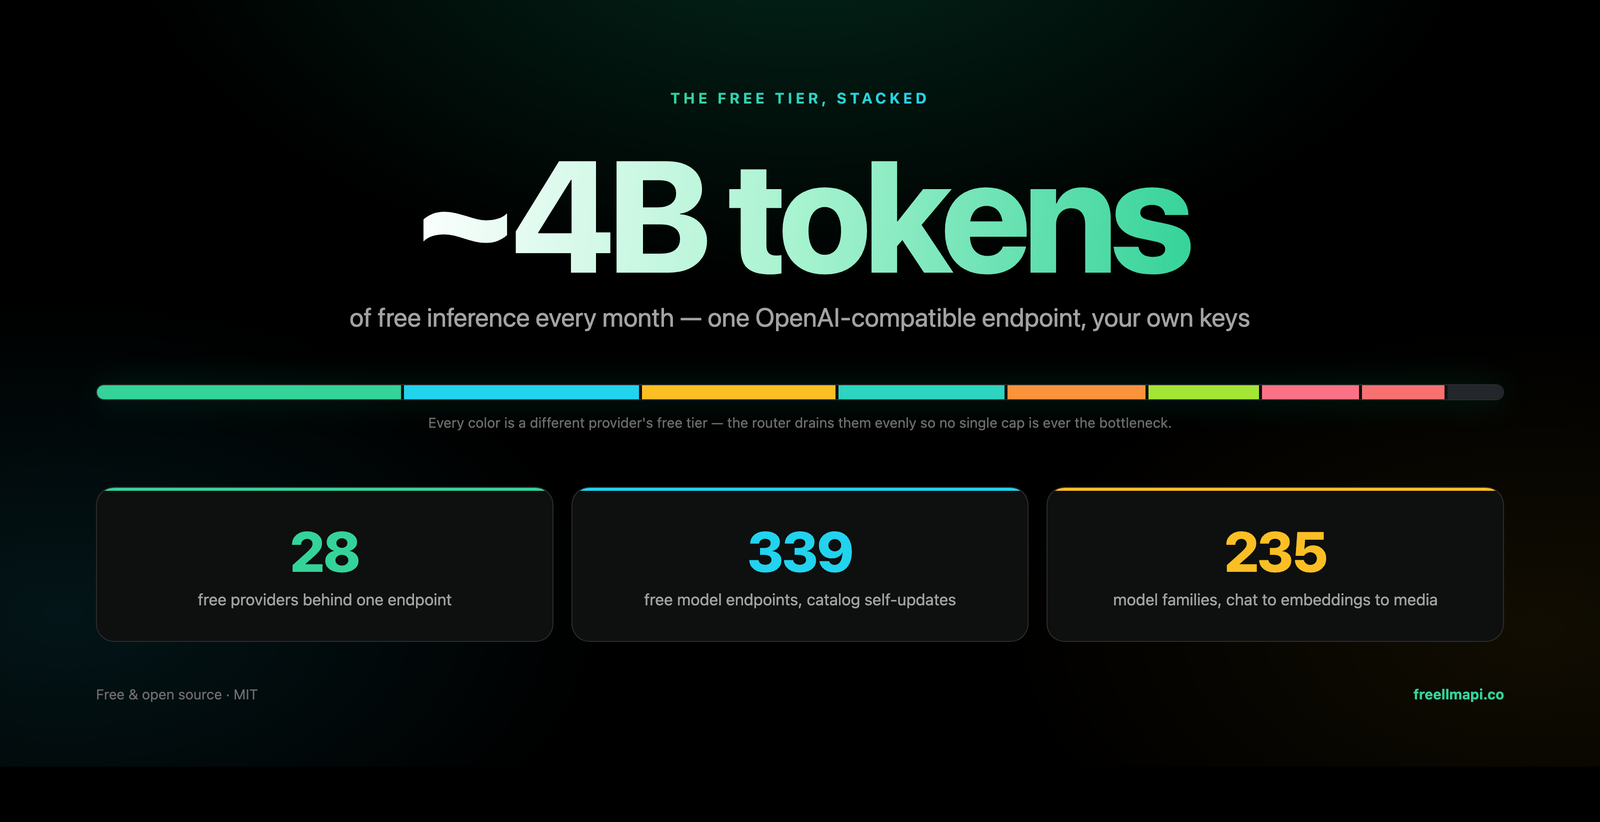
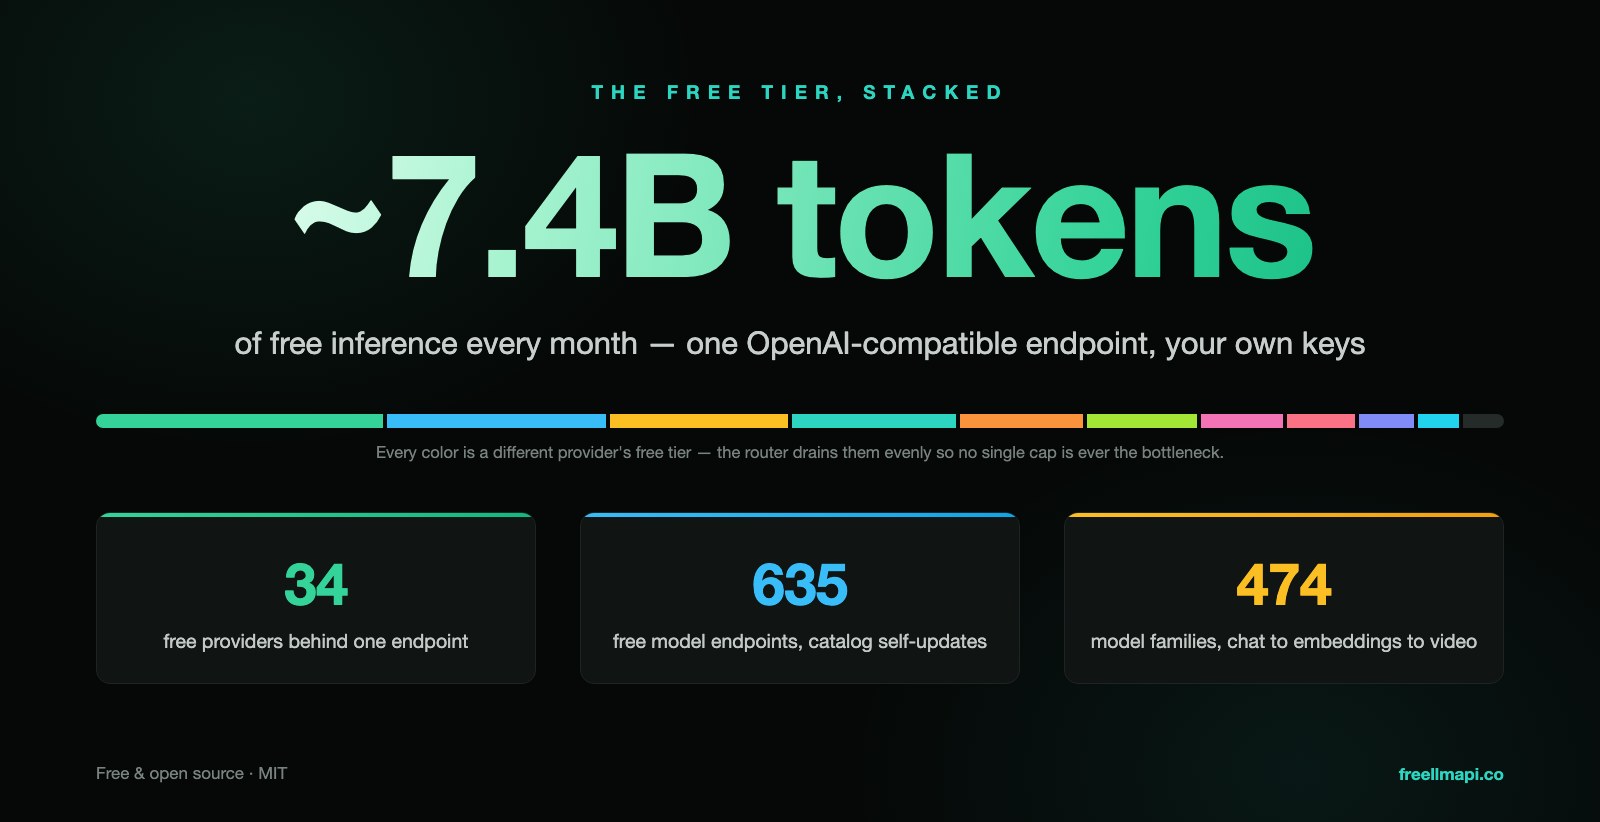
Refresh the free-tier numbers and the stacked-tier graphic (#1006)
7.4 billion tokens a month, 34 providers, 635 free endpoints, 474 model families, regenerated free-tier card, honest 30 day trail disclosure.

diff --git a/README.md b/README.md
@@ -2,7 +2,7 @@
 
 # FreeLLMAPI
 
-**4 billion tokens per month.  29 free LLM providers. 358 free model endpoints. One OpenAI-compatible endpoint.**
+**7.4 billion tokens per month.  34 free LLM providers. 635 free model endpoints. One OpenAI-compatible endpoint.**
 
 Aggregate free tiers from dozens of providers, plus custom OpenAI-compatible chat, embedding, image, and audio endpoints, behind a single `/v1` API. Keys are stored encrypted. A router picks the best available model for each request, falls over to the next provider when one is rate-limited, and tracks per-key usage so you stay under every free-tier cap.
 
@@ -13,7 +13,7 @@ Aggregate free tiers from dozens of providers, plus custom OpenAI-compatible cha
 [![Docker image](https://img.shields.io/badge/ghcr.io-freellmapi-2496ED?logo=docker&logoColor=white)](https://github.com/tashfeenahmed/freellmapi/pkgs/container/freellmapi)
 [![Ask DeepWiki](https://deepwiki.com/badge.svg)](https://deepwiki.com/tashfeenahmed/freellmapi)
 
-**[freellmapi.co](https://freellmapi.co/?utm_source=github&utm_medium=readme&utm_campaign=repository&utm_content=readme_top)** · browse the full catalog: 251 model families, 358 free endpoints
+**[freellmapi.co](https://freellmapi.co/?utm_source=github&utm_medium=readme&utm_campaign=repository&utm_content=readme_top)** · browse the full catalog: 474 model families, 635 free endpoints
 
 **English** · [简体中文](docs/i18n/zh-CN/README.md)
 
@@ -27,7 +27,7 @@ Aggregate free tiers from dozens of providers, plus custom OpenAI-compatible cha
 ![FreeLLMAPI dashboard — Models page with the monthly token budget](repo-assets/github-hero.png)
 
 
-Your router updates its own model catalog from a signed feed: new free models, quota changes, and compatibility fixes land without a `git pull`.
+Your router updates its own model catalog from a signed feed: new free models, quota changes, and compatibility fixes land without a `git pull`. Free installs get the monthly snapshot, so a model reaches them 30 days after it joins the live feed; premium routers get it the same day.
 **[Go live at freellmapi.co](https://freellmapi.co/?utm_source=github&utm_medium=readme&utm_campaign=premium&utm_content=readme_top#pricing)** ($19/yr, cancel anytime).
 
 </div>
@@ -58,13 +58,13 @@ Your router updates its own model catalog from a signed feed: new free models, q
 
 ## Why this exists
 
-Every serious AI lab now offers a free tier, a few million tokens a month, a few thousand requests a day. On its own each tier is a toy. Stacked together, they add up to roughly **4 billion tokens per month** of working inference capacity, across **251 model families / 358 provider endpoints** from small-and-fast to reasonably capable.
+Every serious AI lab now offers a free tier, a few million tokens a month, a few thousand requests a day. On its own each tier is a toy. Stacked together, they add up to roughly **7.4 billion tokens per month** of working inference capacity, across **474 model families / 635 provider endpoints** from small-and-fast to reasonably capable.
 
-The problem is that stacking them by hand is painful: twenty-nine different SDKs, twenty-nine different rate limits, twenty-nine places a request can fail. FreeLLMAPI collapses that into one OpenAI-compatible endpoint. Point any OpenAI client library at your local server, and it routes transparently across whichever providers you've added keys for.
+The problem is that stacking them by hand is painful: thirty-four different SDKs, thirty-four different rate limits, thirty-four places a request can fail. FreeLLMAPI collapses that into one OpenAI-compatible endpoint. Point any OpenAI client library at your local server, and it routes transparently across whichever providers you've added keys for.
 
 And the free-tier landscape shifts weekly: providers launch models, retire them, and change quotas without notice. FreeLLMAPI tracks all of that for you. The router pulls a signed model catalog from [freellmapi.co](https://freellmapi.co) on its own, so your install keeps up without a `git pull`. See [Premium (live catalog)](#premium-live-catalog) for how fast it keeps up.
 
-![The free tier, stacked — ~4B tokens of free inference per month across 28 providers](repo-assets/free-tier.png)
+![The free tier, stacked — ~7.4B tokens of free inference per month across 34 providers](repo-assets/free-tier.png)
 
 ## Supported providers
 
@@ -92,7 +92,7 @@ And the free-tier landscape shifts weekly: providers launch models, retire them,
 </tr>
 </table>
 
-<i>… and 17 more free providers</i>
+<i>… and 22 more free providers</i>
 
 </div>
 
@@ -134,7 +134,7 @@ The full, always-current list lives at **[freellmapi.co/models](https://freellma
 
 </div>
 
-Most of these configure themselves with one command — `npx freellmapi setup-claude`, `setup-codex`, `setup-aider`, `setup-dsh` (DeepSeek Harness), and ten more generators that fetch your live catalog, back up existing config, and never clobber what's already there. Claude Code and Codex also get zero-persistence launchers (`freellmapi launch`, `freellmapi launch-codex`) that inject credentials into the child process only. Zed and JetBrains AI connect through the opt-in [Ollama emulation](docs/clients.md#ollama-clients); Gemini CLI speaks its native wire on `/v1beta`.
+Most of these configure themselves with one command — `npx freellmapi setup-claude`, `setup-codex`, `setup-aider`, `setup-dsh` (DeepSeek Harness), and eleven more generators that fetch your live catalog, back up existing config, and never clobber what's already there. Claude Code and Codex also get zero-persistence launchers (`freellmapi launch`, `freellmapi launch-codex`) that inject credentials into the child process only. Zed and JetBrains AI connect through the opt-in [Ollama emulation](docs/clients.md#ollama-clients); Gemini CLI speaks its native wire on `/v1beta`.
 
 Per-tool recipes, the setup CLI reference, revocable URL tokens for headerless clients, and the MCP server all live in **[Clients & coding agents →](docs/clients.md)**
 
@@ -148,7 +148,7 @@ Based on public documentation, July 2026 — corrections welcome.
 
 ![Feature overview](repo-assets/features.png)
 
-- **Every OpenAI-style surface** — `/v1/chat/completions`, `/v1/responses` (what Codex CLI needs), `/v1/completions` (editor ghost-text autocomplete), `/v1/images/generations`, `/v1/videos/generations`, `/v1/audio/speech`, `/v1/embeddings`, and `/v1/models` — streaming and non-streaming, from the official SDKs or any OpenAI-compatible client. [API reference →](docs/api.md)
+- **Every OpenAI-style surface** — `/v1/chat/completions`, `/v1/responses` (what Codex CLI needs), `/v1/completions` (editor ghost-text autocomplete), `/v1/images/generations`, `/v1/videos/generations`, `/v1/audio/speech`, `/v1/audio/transcriptions`, `/v1/embeddings`, and `/v1/models` — streaming and non-streaming, from the official SDKs or any OpenAI-compatible client. [API reference →](docs/api.md)
 - **Anthropic Messages API** — `/v1/messages` speaks Anthropic's wire format over the same router, so **Claude Code** and the official Anthropic SDKs run against your free pool. [Details →](docs/api.md#anthropic--claude-clients)
 - **Native Gemini + Ollama surfaces** — Gemini CLI can use `/v1beta` (`generateContent`, streaming, token counting, models), while opt-in Ollama emulation serves NDJSON chat/generate, tags, metadata, and embeddings for Zed, JetBrains, and other local-model clients.
 - **Fusion (multi-model synthesis)** — request the virtual `fusion` model and the router fans your prompt out to a panel of diverse free models in parallel, then a judge model synthesizes one answer from the drafts. [Details →](docs/api.md#fusion-multi-model-synthesis)
@@ -157,7 +157,7 @@ Based on public documentation, July 2026 — corrections welcome.
 - **Smart routing, six strategies** — live per-model speed/capability/reliability scores rank your chain; automatic fallover retries the next model on 429/5xx with cooldowns and key rotation. [Routing in detail →](docs/architecture.md#routing-in-detail)
 - **Unified models & profiles** — the same model on several providers collapses into one entry with strict in-group failover; named fallback-chain profiles (a coding chain, a vision chain) switch from the dashboard or per request via `auto:<profile>`.
 - **Per-key rate tracking** — RPM/RPD/TPM/TPD counters per `(platform, model, key)` that learn providers' reported ceilings, so routing always stays under every cap.
-- **Self-updating model catalog** — the router syncs a signed catalog from freellmapi.co twice a day: new models, quota changes, and provider quirk fixes land automatically. [Premium →](#premium-live-catalog)
+- **Self-updating model catalog** — the router syncs a signed catalog from freellmapi.co twice a day: new models, quota changes, and provider quirk fixes land automatically. Free installs track the monthly snapshot, which each model joins 30 days after it lands in the live feed; premium routers get it same-day. [Premium →](#premium-live-catalog)
 - **Sticky sessions & context handoff** — conversations stay on one model for 30 minutes; an optional compact handoff note keeps the thread coherent when a mid-chat switch does happen. [Details →](docs/clients.md#context-handoff)
 - **Prompt compression (opt-in)** — a shared, fail-open request pipeline can deduplicate prompts, filter tool output, compact repeated JSON, and trim stale context before cache lookup and routing. [Details →](docs/compression.md)
 - **Encrypted keys, one token out** — provider keys are AES-256-GCM encrypted in SQLite and decrypted in-memory per request; your apps only ever see a single unified `freellmapi-…` bearer token.
@@ -253,14 +253,20 @@ quota changes, and provider quirk fixes to your local DB. Your own
 enable/disable choices and custom providers are never touched, and every
 download is verified against a pinned Ed25519 key before it is applied.
 
-The catalog currently tracks **29 providers**, **251 model families**, **358
-provider/model endpoints**, and roughly **4 billion tokens per month** of listed
-free-tier capacity. Browse the full set at
+The catalog currently tracks **34 providers**, **474 model families**, **635
+free provider/model endpoints** (584 chat, 41 embeddings, 7 transcription, 3
+video), and roughly **7.4 billion tokens per month** of listed free-tier
+capacity. Browse the full set at
 **[freellmapi.co/models](https://freellmapi.co/models.html)**.
+
+Free installs pull the same signed catalog, but from the monthly snapshot: a
+model joins it 30 days after it lands in the live feed, so the free build
+currently sits about 303 models behind. Nothing expires and nothing is
+crippled — it just arrives later.
 
 Premium keeps that signed catalog live on every router you run. When a provider
 launches a strong free model, quietly tightens a quota, or breaks a wire format,
-live-feed routers receive the update as soon as we ship it.
+live-feed routers receive the update the same day we ship it.
 
 **[Go live at freellmapi.co →](https://freellmapi.co/?utm_source=github&utm_medium=readme&utm_campaign=premium&utm_content=readme_bottom#pricing)**
 

diff --git a/docs/i18n/zh-CN/README.md b/docs/i18n/zh-CN/README.md
@@ -2,7 +2,7 @@
 
 # FreeLLMAPI
 
-**每月 40 亿词元。29 家免费 LLM 提供方。358 个免费模型端点。一个 OpenAI 兼容端点。**
+**每月 74 亿词元。34 家免费 LLM 提供方。635 个免费模型端点。一个 OpenAI 兼容端点。**
 
 把几十家提供方的免费额度，连同任意自建的 OpenAI 兼容聊天、嵌入、图像和音频端点，一起聚合到单个 `/v1` API 之后。密钥加密存储。路由器为每个请求挑选当前可用的最佳模型，某家提供方触发限流时自动转移到下一家，并按密钥跟踪用量，让你始终待在各家的免费额度之内。
 
@@ -13,9 +13,11 @@
 [![Docker image](https://img.shields.io/badge/ghcr.io-freellmapi-2496ED?logo=docker&logoColor=white)](https://github.com/tashfeenahmed/freellmapi/pkgs/container/freellmapi)
 [![Ask DeepWiki](https://deepwiki.com/badge.svg)](https://deepwiki.com/tashfeenahmed/freellmapi)
 
-**[freellmapi.co](https://freellmapi.co/?utm_source=github&utm_medium=readme&utm_campaign=repository&utm_content=readme_top)** · 浏览完整目录：251 个模型系列，358 个免费端点
+**[freellmapi.co](https://freellmapi.co/?utm_source=github&utm_medium=readme&utm_campaign=repository&utm_content=readme_top)** · 浏览完整目录：474 个模型系列，635 个免费端点
 
 [English](../../../README.md) · **简体中文**
+
+本翻译可能滞后，最新内容以英文 README 为准。
 
 ![FreeLLMAPI 仪表盘 —— 带每月词元额度的模型页](../../../repo-assets/github-hero.png)
 
@@ -52,13 +54,13 @@
 
 ## 为什么会有这个项目
 
-如今每家正经的 AI 实验室都提供免费额度：每月几百万词元，每天几千次请求。单独看，每一份都只是个玩具。叠加起来，它们合计约 **每月 40 亿词元** 的可用推理能力，覆盖 **251 个模型系列 / 358 个提供方端点**，从小而快的到相当能打的都有。
+如今每家正经的 AI 实验室都提供免费额度：每月几百万词元，每天几千次请求。单独看，每一份都只是个玩具。叠加起来，它们合计约 **每月 74 亿词元** 的可用推理能力，覆盖 **474 个模型系列 / 635 个提供方端点**，从小而快的到相当能打的都有。
 
-问题在于手工叠加太痛苦：二十九套不同的 SDK，二十九种不同的限流规则，二十九个请求可能失败的地方。FreeLLMAPI 把这些收拢成一个 OpenAI 兼容端点。把任意 OpenAI 客户端库指向你的本地服务，它就会在你添加过密钥的提供方之间透明路由。
+问题在于手工叠加太痛苦：三十四套不同的 SDK，三十四种不同的限流规则，三十四个请求可能失败的地方。FreeLLMAPI 把这些收拢成一个 OpenAI 兼容端点。把任意 OpenAI 客户端库指向你的本地服务，它就会在你添加过密钥的提供方之间透明路由。
 
 而且免费额度的格局每周都在变：提供方会上线新模型、下线旧模型，并且不打招呼就调整额度。这些 FreeLLMAPI 都替你盯着。路由器会自行从 [freellmapi.co](https://freellmapi.co) 拉取经过签名的模型目录，所以你的部署不用 `git pull` 也能跟上。跟进速度见 [Premium 实时目录](#premium-实时目录)。
 
-![叠加后的免费额度 —— 28 家提供方合计每月约 40 亿词元的免费推理](../../../repo-assets/free-tier.png)
+![叠加后的免费额度 —— 34 家提供方合计每月约 74 亿词元的免费推理](../../../repo-assets/free-tier.png)
 
 ## 支持的提供方
 
@@ -86,7 +88,7 @@
 </tr>
 </table>
 
-<i>…… 以及另外 17 家免费提供方</i>
+<i>…… 以及另外 22 家免费提供方</i>
 
 </div>
 
@@ -230,7 +232,7 @@ FreeLLMAPI 在设计上是本地优先、单用户的。你的提供方密钥留
 
 路由器会自行保持模型目录的新鲜：它每天两次从 [freellmapi.co](https://freellmapi.co) 拉取经过签名的目录，把新模型、额度变更和提供方的怪癖修复应用到你的本地数据库。你自己的启用/停用选择和自定义提供方永远不会被动到，而且每次下载在应用之前都会用固定的 Ed25519 公钥验签。
 
-目录目前收录 **29 家提供方**、**251 个模型系列**、**358 个提供方/模型端点**，以及大约 **每月 40 亿词元** 的免费额度容量。完整内容可在 **[freellmapi.co/models](https://freellmapi.co/models.html)** 浏览。
+目录目前收录 **34 家提供方**、**474 个模型系列**、**635 个免费提供方/模型端点**（584 个聊天、41 个嵌入、7 个转录、3 个视频），以及大约 **每月 74 亿词元** 的免费额度容量。完整内容可在 **[freellmapi.co/models](https://freellmapi.co/models.html)** 浏览。
 
 Premium 让这份签名目录在你运行的每一个路由器上保持实时。当某家提供方上线了一个强力的免费模型、悄悄收紧了额度，或者改坏了协议格式，订阅了实时源的路由器会在我们发布的第一时间收到更新。
 

diff --git a/docs/architecture.md b/docs/architecture.md
@@ -33,7 +33,7 @@ How the router decides, what to expect from stacked free tiers, and where the bo
                                           │
    ┌──────────────┬────────────┬──────────┴─────────┬─────────────┬──────────┐
    ▼              ▼            ▼                    ▼             ▼          ▼
- Google         Groq        Cerebras           OpenRouter        HF       …22 more
+ Google         Groq        Cerebras           OpenRouter        HF       …29 more
 ```
 
 - **Router** (`server/src/services/router.ts`) — picks a model per request.
@@ -79,8 +79,8 @@ PRs that add any of these are very welcome. See [Contributing](../README.md#cont
 
 Stacking free tiers has real trade-offs. Be honest with yourself about them:
 
-- **No frontier models.** The free-tier catalog tops out around Llama 3.3 70B, GLM-4.5, Qwen 3 Coder, and Gemini 2.5 Pro. You will not get GPT-5 or Claude Opus class reasoning through this. For hard problems, pay for a real API.
-- **Intelligence degrades as the day progresses.** Your top-ranked models (usually Gemini 2.5 Pro, GPT-4o via GitHub Models) have the lowest daily caps. Once they hit their limits, the router falls down your priority chain to smaller/weaker models. Expect the effective intelligence of the endpoint to drop in the late hours of each day — then reset at UTC midnight.
+- **Quota and availability are the ceiling, not model class.** The catalog does carry frontier-class rows — GPT-5.x, Grok 4.x, Kimi K3, DeepSeek V4 Pro, and Gemini 3.x all show up on somebody's free tier. What you don't get is *sustained* access to them: those are exactly the rows with the smallest daily allowances, the longest queues, and the highest chance of being pulled or paywalled at short notice. Budget for capacity and uptime, not for a capability limit.
+- **Intelligence degrades as the day progresses.** Your top-ranked models (usually Gemini 3.6 Flash, DeepSeek V4, Kimi K2.6) have the lowest daily caps. Once they hit their limits, the router falls down your priority chain to smaller/weaker models. Expect the effective intelligence of the endpoint to drop in the late hours of each day — then reset at UTC midnight.
 - **Latency is highly variable.** Cerebras and Groq are extremely fast; others are not. You get whichever one is available.
 - **Free tiers can change without notice.** Providers regularly tighten, loosen, or remove free tiers. When that happens you'll see 429s or auth errors until the catalog update reaches you — live-feed installs get those fixes within days, free installs on the 30-day trail. Re-seed scripts live in `server/src/scripts/`.
 - **No SLA, by definition.** If you need reliability, use a paid provider with a contract.
@@ -109,4 +109,4 @@ A self-hosted, single-user, personal-use setup was re-reviewed against each prov
 
 Rules of thumb that keep most providers happy: **one account per provider**, **no reselling**, **no sharing your endpoint with other humans**, **don't hammer a free tier as a paid production backend**. This is informational, not legal advice — read each provider's ToS and make your own call.
 
-Removed since the April 2026 review: Hugging Face, Moonshot, and MiniMax direct integrations were dropped from the catalog (HF — tool-call format issues; Moonshot — moved to paid only; MiniMax — superseded by the OpenRouter `minimax/minimax-m2.5:free` route).
+Removed since the April 2026 review: Moonshot and MiniMax direct integrations were dropped from the catalog (Moonshot — moved to paid only; MiniMax — superseded by the OpenRouter `minimax/minimax-m2.5:free` route).
